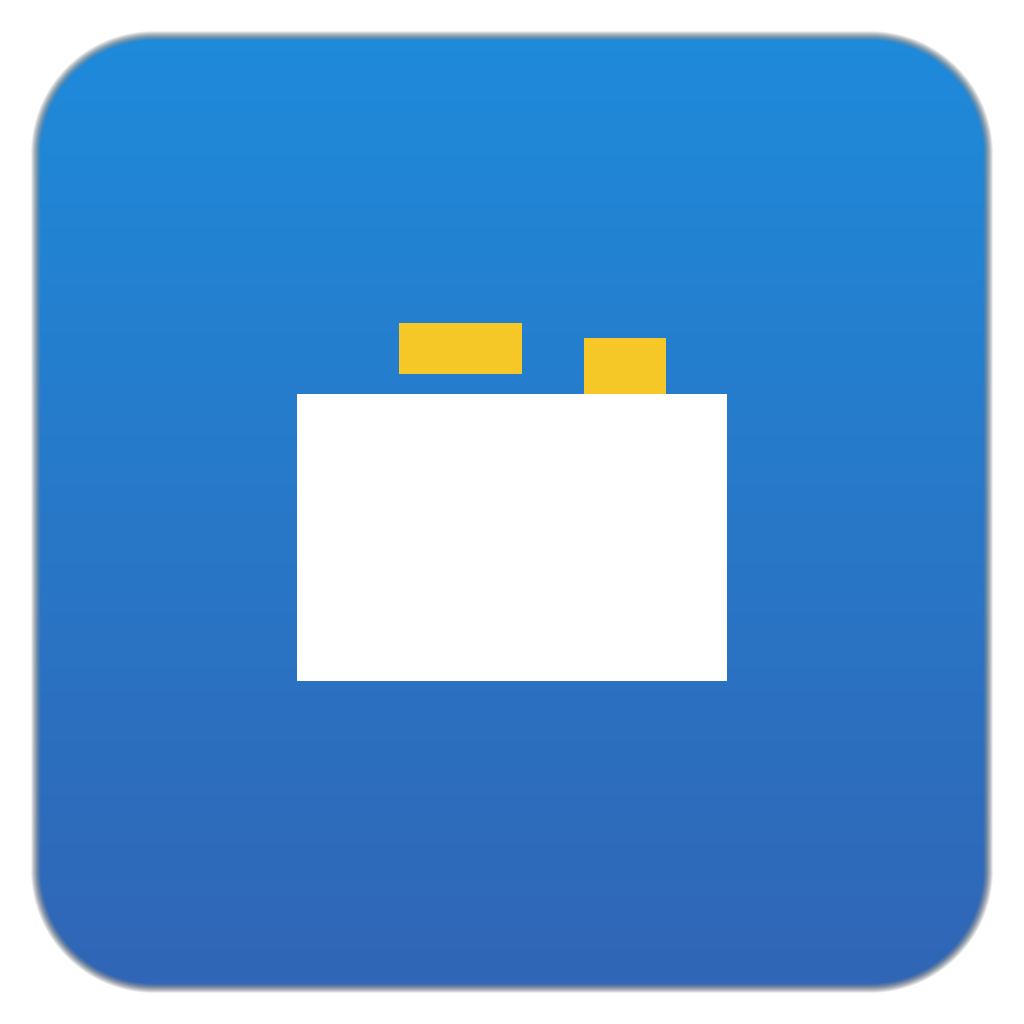
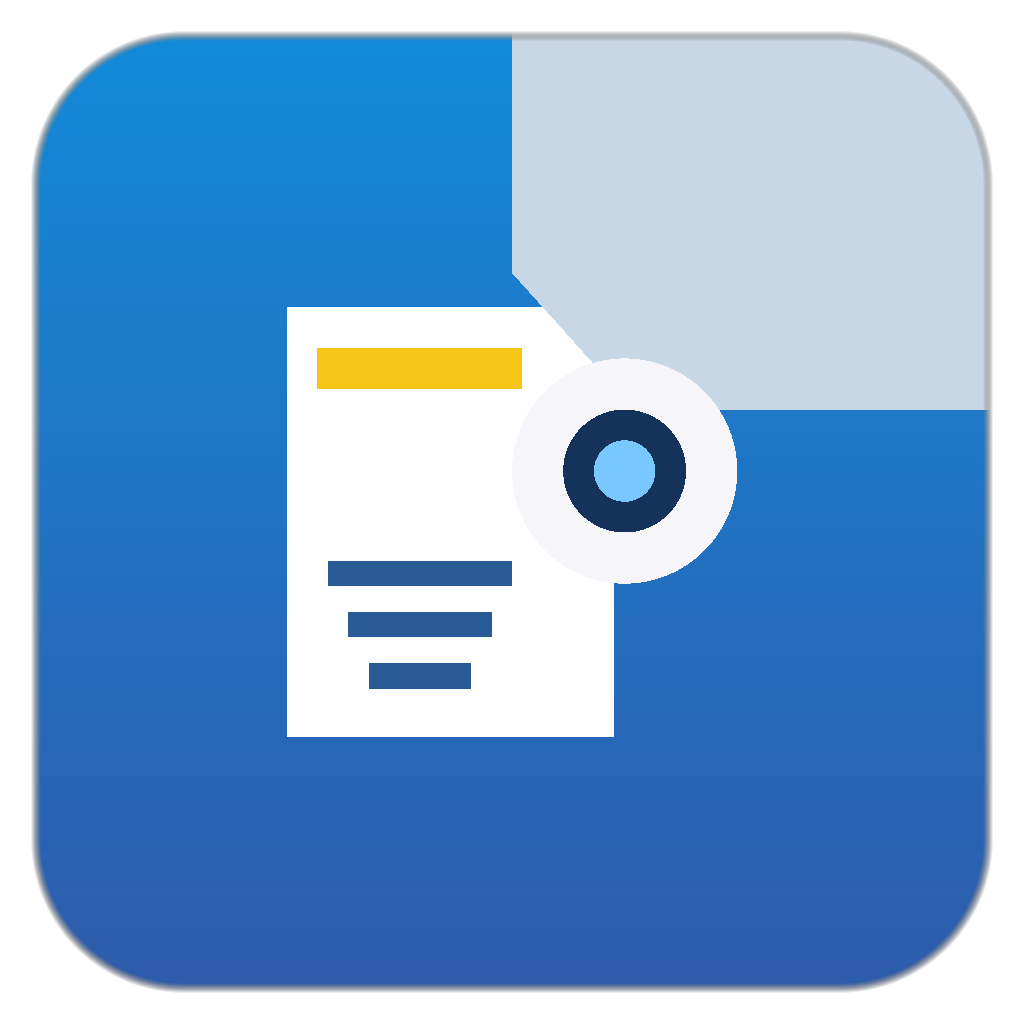
feat: 现场图片工具改名、续页继承、定位修复与新图标
文件名/标题字段澄清；续页继承文字并清空时空天气定位；Electron 主进程地理编码与定位权限；产品名与图标更新。

diff --git a/report.js b/report.js
@@ -144,7 +144,7 @@ function renderBlockHtml(b) {
   if (b.type === "heading") {
     return `<div class="report-block ${sel}" data-id="${b.id}" data-type="heading" draggable="true">
       <span class="block-handle" title="拖动">⋮⋮</span>
-      <div class="report-heading" contenteditable="true" data-role="text">${escapeHtml(b.text || "报告标题")}</div>
+      <div class="report-heading" contenteditable="true" data-role="text">${escapeHtml(b.text || "标题")}</div>
     </div>`;
   }
   if (b.type === "label") {
@@ -283,9 +283,9 @@ function insertCompareGroup() {
   insertBlocks(
     [
       { id: uid(), type: "label", text: "施工前：" },
-      emptyPhoto(),
+      emptyPhotoWithInherit(),
       { id: uid(), type: "label", text: "施工后：" },
-      emptyPhoto(),
+      emptyPhotoWithInherit(),
     ],
     reportState.selectedId
   );
@@ -306,25 +306,73 @@ function insertPhoto() {
   insertBlocks([emptyPhoto()], reportState.selectedId);
 }
 
-/** 像 Word 一样新开一页，并放一组前后对比骨架 */
+/** 取上一张带水印快照的图片配置，并清空时间/天气/地址/经纬度（其它文字保留） */
+function inheritWmSnapshotFromPrev() {
+  const blocks = reportState.doc.blocks;
+  let src = null;
+  for (let i = blocks.length - 1; i >= 0; i--) {
+    const b = blocks[i];
+    if (b.type === "photo" && b.wmSnapshot) {
+      src = b.wmSnapshot;
+      break;
+    }
+  }
+  if (!src && window.SyWatermark?.getSnapshot) {
+    src = window.SyWatermark.getSnapshot();
+  }
+  if (!src) return null;
+  const snap = JSON.parse(JSON.stringify(src));
+  const fields = snap.fields || [];
+  const shouldClear = (f) => {
+    const label = String(f.label || "").replace(/\s/g, "");
+    const key = String(f.key || "");
+    const auto = f.auto || "";
+    if (["datetime", "weather", "address", "lng", "lat"].includes(auto)) return true;
+    if (/时间|日期/.test(label) || key === "time") return true;
+    if (/天气/.test(label) || key === "weather") return true;
+    if (/地址|地点/.test(label) || key === "address") return true;
+    if (/经度/.test(label) || key === "lng") return true;
+    if (/纬度/.test(label) || key === "lat") return true;
+    return false;
+  };
+  if (!snap.fieldValues) snap.fieldValues = {};
+  for (const f of fields) {
+    if (shouldClear(f)) snap.fieldValues[f.key] = "";
+  }
+  return snap;
+}
+
+function lastHeadingText() {
+  const blocks = reportState.doc.blocks;
+  for (let i = blocks.length - 1; i >= 0; i--) {
+    if (blocks[i].type === "heading" && blocks[i].text) return blocks[i].text;
+  }
+  return "";
+}
+
+function emptyPhotoWithInherit() {
+  const p = emptyPhoto();
+  p.wmSnapshot = inheritWmSnapshotFromPrev();
+  return p;
+}
+
+/** 像 Word 一样新开一页；标题与其它文字继承上页，时间/定位/天气留空 */
 function insertNextPage() {
   flushWmToSelected();
-  const pageBreak = { id: uid(), type: "pageBreak" };
+  const heading = lastHeadingText() || "";
   const group = [
-    pageBreak,
-    { id: uid(), type: "heading", text: reportState.doc.title || "续页", align: "center", underline: true },
+    { id: uid(), type: "pageBreak" },
+    { id: uid(), type: "heading", text: heading, align: "center", underline: true },
     { id: uid(), type: "label", text: "施工前：" },
-    emptyPhoto(),
+    emptyPhotoWithInherit(),
     { id: uid(), type: "label", text: "施工后：" },
-    emptyPhoto(),
+    emptyPhotoWithInherit(),
   ];
-  // 追加到文末
   reportState.doc.blocks.push(...group);
   reportState.selectedId = group[group.length - 1].id;
   saveDoc();
   renderPaper();
   selectBlock(reportState.selectedId);
-  // 滚到新页
   requestAnimationFrame(() => {
     const pages = document.querySelectorAll(".report-paper");
     pages[pages.length - 1]?.scrollIntoView({ behavior: "smooth", block: "start" });
@@ -507,7 +555,7 @@ async function exportDocx() {
             spacing: { after: 120, before: firstPage ? 40 : 80 },
             children: [
               new TextRun({
-                text: b.text || reportState.doc.title || "施工报告",
+                text: b.text || "标题",
                 bold: true,
                 size: 32,
                 font: "Microsoft YaHei",
@@ -596,12 +644,13 @@ async function exportDocx() {
     });
 
     const blob = await Packer.toBlob(doc);
-    const title =
+    // 文件名 = 文档「文件名」字段；无则用首个标题
+    const fileBase =
       reportState.doc.title ||
       reportState.doc.blocks.find((x) => x.type === "heading")?.text ||
-      "施工报告";
-    const safe = String(title).replace(/[\\/:*?"<>|]/g, "_") || "施工报告";
-    const name = `${safe}_${new Date().toISOString().slice(0, 10)}.docx`;
+      "现场图片报告";
+    const safe = String(fileBase).replace(/[\\/:*?"<>|]/g, "_").trim() || "现场图片报告";
+    const name = `${safe}.docx`;
 
     if (window.syDesktop?.saveBlob) {
       await window.syDesktop.saveBlob(blob, name);

diff --git a/desktop/main.js b/desktop/main.js
@@ -1,6 +1,8 @@
-const { app, BrowserWindow, shell, Menu, dialog, ipcMain } = require("electron");
+const { app, BrowserWindow, shell, Menu, dialog, ipcMain, session } = require("electron");
 const path = require("path");
 const fs = require("fs");
+
+const GEO_UA = "XianChangTuPianGongJu/1.2 (desktop; field photo tool)";
 
 function createWindow() {
   const win = new BrowserWindow({
@@ -8,7 +10,7 @@ function createWindow() {
     height: 900,
     minWidth: 960,
     minHeight: 640,
-    title: "施工影像办公",
+    title: "现场图片工具",
     backgroundColor: "#0f1419",
     webPreferences: {
       preload: path.join(__dirname, "preload.js"),
@@ -18,7 +20,7 @@ function createWindow() {
     },
   });
 
-  // 桌面独立版入口（无 Cloudflare 登录；含水印+报告）
+  // 桌面独立版入口（无 Cloudflare；含水印 + 现场图片报告）
   const indexPath = path.join(__dirname, "..", "office.html");
   win.loadFile(indexPath);
 
@@ -97,7 +99,7 @@ function buildMenu() {
 ipcMain.handle("dialog:save-blob", async (event, { name, base64 }) => {
   const win = BrowserWindow.fromWebContents(event.sender);
   const { filePath, canceled } = await dialog.showSaveDialog(win, {
-    defaultPath: name || "施工报告.docx",
+    defaultPath: name || "现场图片报告.docx",
     filters: [{ name: "Word 文档", extensions: ["docx"] }],
   });
   if (canceled || !filePath) return { ok: false, canceled: true };
@@ -106,7 +108,43 @@ ipcMain.handle("dialog:save-blob", async (event, { name, base64 }) => {
   return { ok: true, path: filePath };
 });
 
+/** 主进程请求地理编码（绕过 file:// CORS，并带合法 User-Agent） */
+ipcMain.handle("geo:reverse", async (_e, { lat, lng }) => {
+  const url =
+    `https://nominatim.openstreetmap.org/reverse?format=jsonv2&lat=${lat}&lon=${lng}` +
+    `&accept-language=zh-CN&addressdetails=1`;
+  const res = await fetch(url, {
+    headers: { Accept: "application/json", "User-Agent": GEO_UA },
+  });
+  if (!res.ok) throw new Error(`逆地理 ${res.status}`);
+  return res.json();
+});
+
+ipcMain.handle("geo:search", async (_e, { q }) => {
+  const url =
+    `https://nominatim.openstreetmap.org/search?format=jsonv2&q=${encodeURIComponent(q)}` +
+    `&limit=6&accept-language=zh-CN&addressdetails=1`;
+  const res = await fetch(url, {
+    headers: { Accept: "application/json", "User-Agent": GEO_UA },
+  });
+  if (!res.ok) throw new Error(`搜索 ${res.status}`);
+  return res.json();
+});
+
 app.whenReady().then(() => {
+  // 允许页面申请定位权限（macOS / Windows）
+  session.defaultSession.setPermissionRequestHandler((_wc, permission, callback) => {
+    if (permission === "geolocation" || permission === "media") {
+      callback(true);
+      return;
+    }
+    callback(false);
+  });
+  session.defaultSession.setPermissionCheckHandler((_wc, permission) => {
+    if (permission === "geolocation" || permission === "media") return true;
+    return false;
+  });
+
   buildMenu();
   createWindow();
   app.on("activate", () => {

diff --git a/app.js b/app.js
@@ -627,6 +627,11 @@ async function updateWeatherFromState({ silent = false } = {}) {
 
 // —— 逆地理 / 搜索（Nominatim） ——
 async function reverseGeocode(lat, lng) {
+  // 桌面 App：走主进程，避免 file:// CORS / 缺 UA 导致定位地址失败
+  if (window.syDesktop?.reverseGeocode) {
+    const data = await window.syDesktop.reverseGeocode(lat, lng);
+    return formatAddress(data);
+  }
   const url =
     `https://nominatim.openstreetmap.org/reverse?format=jsonv2&lat=${lat}&lon=${lng}` +
     `&accept-language=zh-CN&addressdetails=1`;
@@ -658,6 +663,9 @@ function formatAddress(data) {
 }
 
 async function searchPlaces(q) {
+  if (window.syDesktop?.searchPlaces) {
+    return window.syDesktop.searchPlaces(q);
+  }
   const url =
     `https://nominatim.openstreetmap.org/search?format=jsonv2&q=${encodeURIComponent(q)}` +
     `&limit=6&accept-language=zh-CN&addressdetails=1`;
@@ -1052,18 +1060,28 @@ async function confirmLoc() {
   await updateWeatherFromState();
 }
 
+function geolocationErrorMessage(err) {
+  if (!err) return "请检查系统定位权限";
+  // GeolocationPositionError codes
+  if (err.code === 1) return "定位权限被拒绝，请在系统设置中允许本应用使用位置";
+  if (err.code === 2) return "暂时无法获取位置，请检查网络或稍后重试";
+  if (err.code === 3) return "定位超时，请到室外或打开「精确位置」后重试";
+  return err.message || "请检查定位权限与网络";
+}
+
 async function applyCurrentGps() {
   if (!navigator.geolocation) {
     alert("当前环境不支持定位");
     return;
   }
   setStatus("正在获取当前位置…");
-  $("#btnFillGps").disabled = true;
+  if ($("#btnFillGps")) $("#btnFillGps").disabled = true;
   try {
     const pos = await new Promise((resolve, reject) => {
       navigator.geolocation.getCurrentPosition(resolve, reject, {
         enableHighAccuracy: true,
-        timeout: 15000,
+        timeout: 20000,
+        maximumAge: 0,
       });
     });
     const lng = pos.coords.longitude;
@@ -1075,16 +1093,19 @@ async function applyCurrentGps() {
     try {
       const addr = await reverseGeocode(lat, lng);
       setFieldValueByRole("address", addr);
-    } catch {
-      /* 地址失败不影响坐标 */
+      setStatus(`定位成功：${addr || `${lat.toFixed(5)}, ${lng.toFixed(5)}`}`, "ok");
+    } catch (e) {
+      setStatus("已获取坐标，地址解析失败（可手动改地址）", "error");
     }
     renderFieldsEditor();
     redraw();
-    await updateWeatherFromState();
+    await updateWeatherFromState({ silent: true });
   } catch (err) {
-    setStatus("定位失败：" + (err.message || "请检查权限"), "error");
+    console.error(err);
+    setStatus("定位失败：" + geolocationErrorMessage(err), "error");
+    alert("定位失败：\n" + geolocationErrorMessage(err));
   } finally {
-    $("#btnFillGps").disabled = false;
+    if ($("#btnFillGps")) $("#btnFillGps").disabled = false;
   }
 }
 
@@ -1940,13 +1961,15 @@ function bindEvents() {
       const pos = await new Promise((resolve, reject) => {
         navigator.geolocation.getCurrentPosition(resolve, reject, {
           enableHighAccuracy: true,
-          timeout: 15000,
+          timeout: 20000,
+          maximumAge: 0,
         });
       });
       await setPendingFromLatLng(pos.coords.latitude, pos.coords.longitude);
       map?.setView([pos.coords.latitude, pos.coords.longitude], MAP_DEFAULT_ZOOM);
     } catch (err) {
-      alert("定位失败：" + (err.message || ""));
+      console.error(err);
+      alert("定位失败：\n" + geolocationErrorMessage(err));
     } finally {
       $("#btnLocGps").textContent = "定位";
     }

diff --git a/office.html b/office.html
@@ -8,7 +8,7 @@
   <meta name="apple-mobile-web-app-status-bar-style" content="black-translucent" />
   <meta name="apple-mobile-web-app-title" content="水印相机" />
   <meta name="description" content="施工现场照片叠加工程记录水印" />
-  <title>施工影像办公</title>
+  <title>现场图片工具</title>
   <link rel="manifest" href="manifest.webmanifest" />
   <link rel="icon" type="image/png" sizes="192x192" href="icons/icon-192.png" />
   <link rel="apple-touch-icon" href="icons/icon-512.png" />
@@ -26,13 +26,13 @@
       <div class="brand">
         <span class="brand-icon">📷</span>
         <div>
-          <h1>施工影像办公</h1>
-          <p>水印 · 施工报告 · Word 导出</p>
+          <h1>现场图片工具</h1>
+          <p>水印 · 现场图片报告 · Word 导出</p>
         </div>
       </div>
       <div class="mode-switch" id="modeSwitch" role="tablist">
         <button type="button" class="mode-btn" data-mode="watermark">水印工具</button>
-        <button type="button" class="mode-btn active" data-mode="report">施工报告</button>
+        <button type="button" class="mode-btn active" data-mode="report">现场图片报告</button>
       </div>
       <div class="top-actions">
         <div id="authUserBar" class="auth-user-bar"></div>
@@ -41,7 +41,7 @@
           <button type="button" id="btnExport" class="btn btn-primary" disabled>导出图片</button>
         </span>
         <span id="reportActions" class="mode-actions">
-          <button type="button" id="btnReportNew" class="btn btn-ghost">新建报告</button>
+          <button type="button" id="btnReportNew" class="btn btn-ghost">新建</button>
           <button type="button" id="btnExportDocx" class="btn btn-primary">导出 Word</button>
         </span>
       </div>
@@ -185,7 +185,7 @@
           <button type="button" class="btn btn-ghost btn-sm" id="btnInsertLabel">+ 文字</button>
           <button type="button" class="btn btn-ghost btn-sm" id="btnInsertPhoto">+ 图片</button>
           <button type="button" class="btn btn-primary btn-sm" id="btnInsertPage">+ 下一页</button>
-          <span class="muted report-hint">像 Word 一样连续加页 · 选中图片可在右侧改水印</span>
+          <span class="muted report-hint">连续加页 · 选中图片可在右侧改水印</span>
         </div>
         <div class="report-scroll" id="reportScroll">
           <div class="report-pages" id="reportPages" aria-label="报告编辑区"></div>
@@ -195,15 +195,15 @@
         <div class="report-side-head">
           <h3 class="report-side-title">文档与块</h3>
           <div class="field">
-            <label>报告标题</label>
-            <input type="text" id="reportDocTitle" placeholder="如：竹山水渠清理" />
+            <label>文件名</label>
+            <input type="text" id="reportDocTitle" placeholder="导出 Word 时的文件名" />
           </div>
         </div>
-        <p class="hint" id="reportBlockHint">选中文档中的<strong>图片块</strong>，下方出现完整水印编辑工具</p>
+        <p class="hint" id="reportBlockHint">选中文档中的<strong>图片块</strong>，下方可编辑水印；选中标题/文字块可改<strong>标题</strong></p>
         <div id="reportBlockEditor" class="report-block-editor" hidden>
           <div class="field" id="blockTextField">
-            <label>文字内容</label>
-            <input type="text" id="blockTextInput" />
+            <label>标题</label>
+            <input type="text" id="blockTextInput" placeholder="文档中显示的标题文字" />
           </div>
           <div class="field" id="blockPhotoField" hidden>
             <label>本页图片</label>

diff --git a/desktop/preload.js b/desktop/preload.js
@@ -15,4 +15,10 @@ contextBridge.exposeInMainWorld("syDesktop", {
   onExportDocx(cb) {
     ipcRenderer.on("menu:export-docx", () => cb && cb());
   },
+  reverseGeocode(lat, lng) {
+    return ipcRenderer.invoke("geo:reverse", { lat, lng });
+  },
+  searchPlaces(q) {
+    return ipcRenderer.invoke("geo:search", { q });
+  },
 });